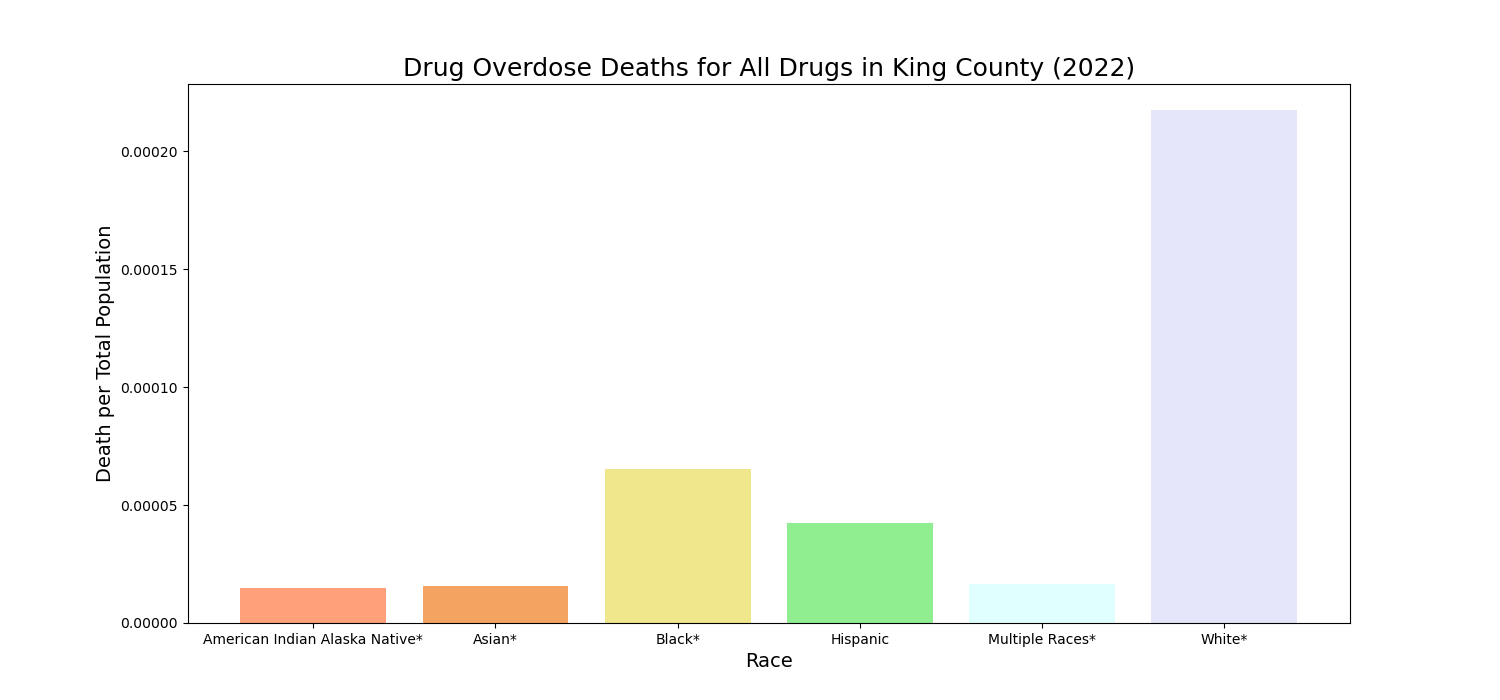
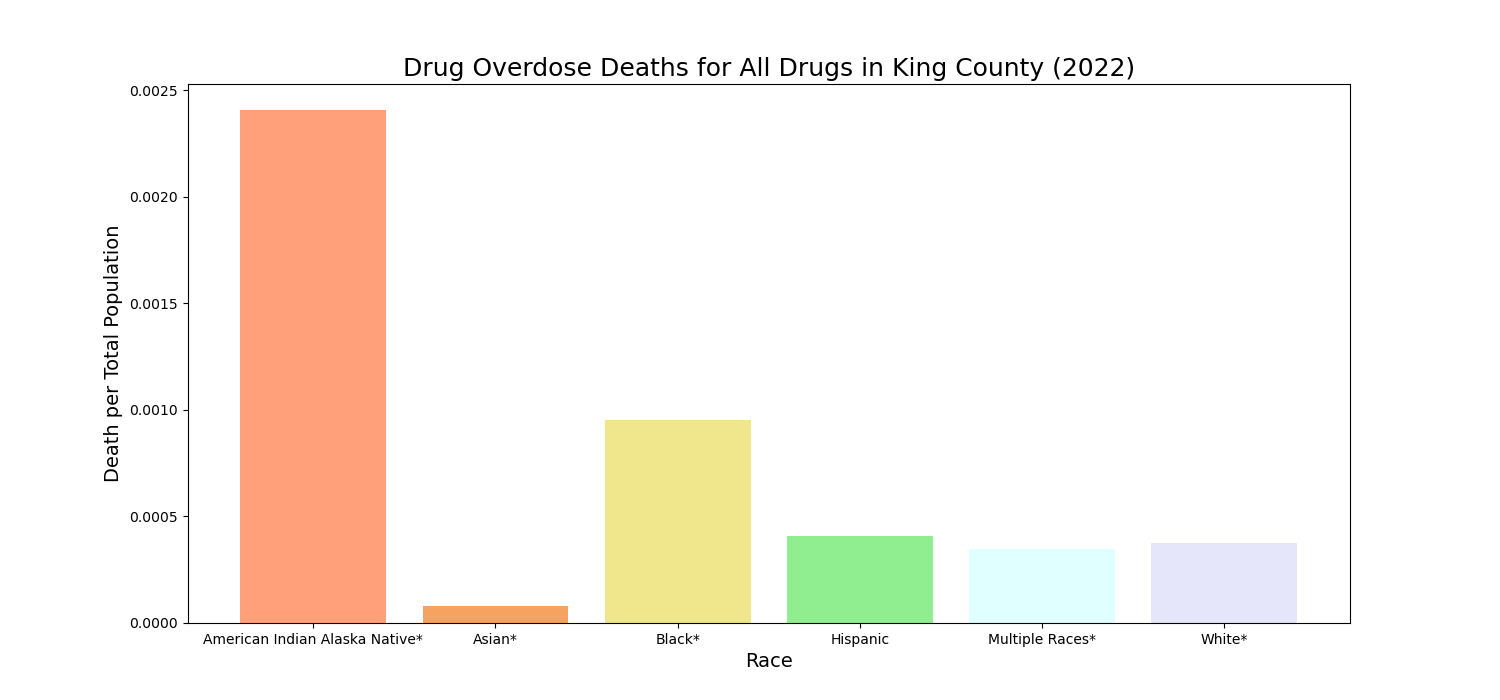
Fixed Q4

diff --git a/question_4.py b/question_4.py
@@ -32,8 +32,8 @@ def race_death_wa(wa_race_data: pd.DataFrame) -> None:
     king_county['Death Count'] = king_county['Death Count'].astype(float)
 
     # Normalize to total population
-    tot_pop = king_county['Population'].sum()
-    king_county['Death per Capita'] = king_county['Death Count']/tot_pop
+    king_county['Death per Capita'] = \
+        king_county['Death Count']/king_county['Population']
 
     # Plot
     plt.figure(figsize=(15, 7))

diff --git a/test.py b/test.py
@@ -129,6 +129,8 @@ def test_race_death_wa(wa_race_data):
     print('Printing table of death counts per capita in King County (2022):')
     print()
     print(king_county)
+    print()
+    print('Total Population')
 
 
 def main():
